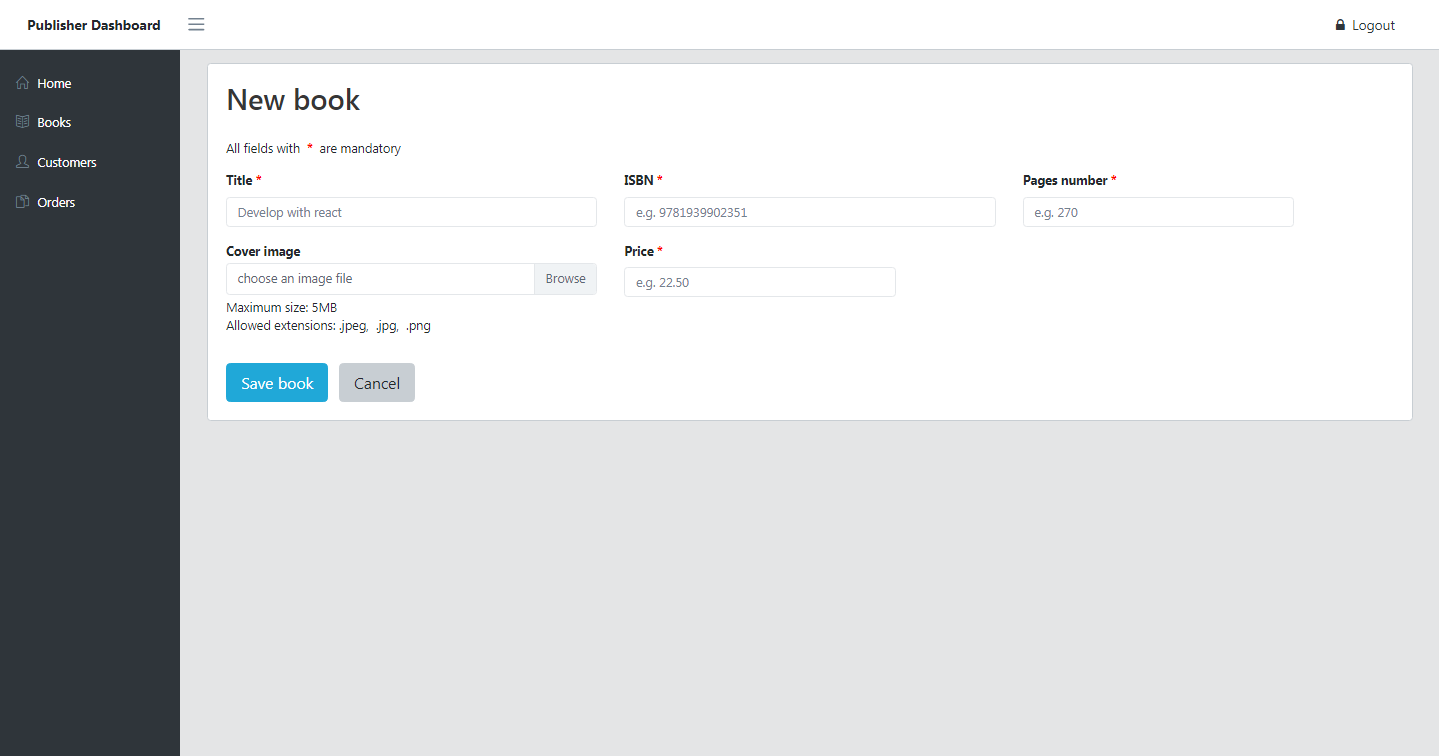
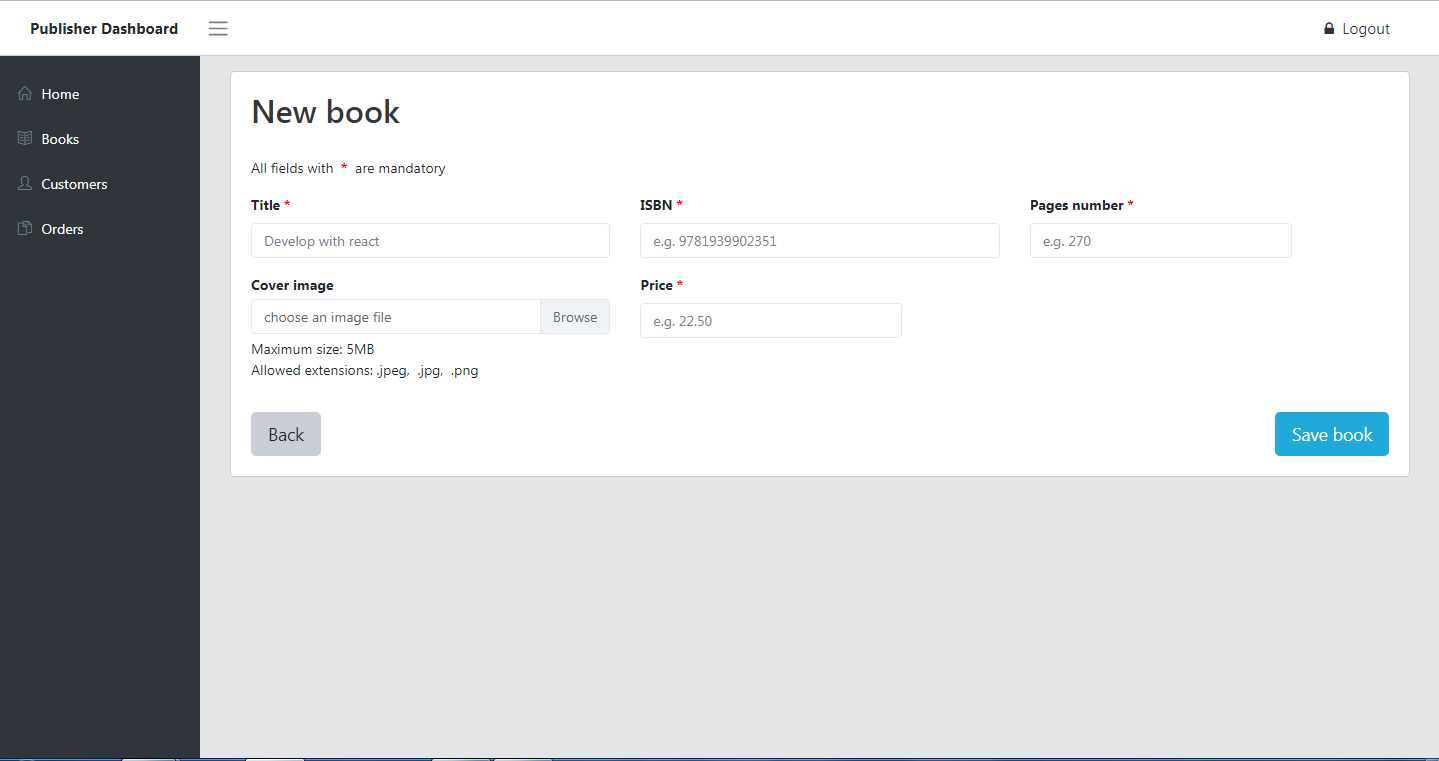
change position button save

diff --git a/src/components/books/bookForm/BookForm.js b/src/components/books/bookForm/BookForm.js
@@ -159,18 +159,19 @@ const BookForm = props => {
             </FormGroup>
           </Col>
         </Row>
-        <div className="mt-3">
+        <div className="mt-3"> 
           <Button
             type="submit"
             color="primary"
+            className="pull-right"
             size="lg">
             Save book
-          </Button>
-            &nbsp; &nbsp;
+          </Button>          
           <NavLink exact to={PATH_BOOKS}>
-            <Button color="secondary" size="lg">Cancel</Button>
+            <Button color="secondary"             
+            size="lg">Back</Button>
           </NavLink>
-        </div>
+         </div> 
       </Form>
     </React.Fragment>
   );

diff --git a/src/components/customers/customerForm/CustomerForm.js b/src/components/customers/customerForm/CustomerForm.js
@@ -210,12 +210,12 @@ const CustomerForm = props => {
           <Button
             type="submit"
             color="primary"
+            className="pull-right"
             size="lg">
             Save customer
-            </Button>
-          &nbsp; &nbsp;
-            <NavLink exact to={PATH_CUSTOMERS}>
-            <Button color="secondary" size="lg">Cancel</Button>
+          </Button>       
+          <NavLink exact to={PATH_CUSTOMERS}>
+            <Button color="secondary" size="lg">Back</Button>
           </NavLink>
         </div>
       </Form>

diff --git a/public/index.html b/public/index.html
@@ -24,7 +24,7 @@
       work correctly both with client-side routing and a non-root public URL.
       Learn how to configure a non-root public URL by running `npm run build`.
     -->
-    <title>React App</title>
+    <title>Admin Books App</title>
   </head>
   <body>
     <noscript>
